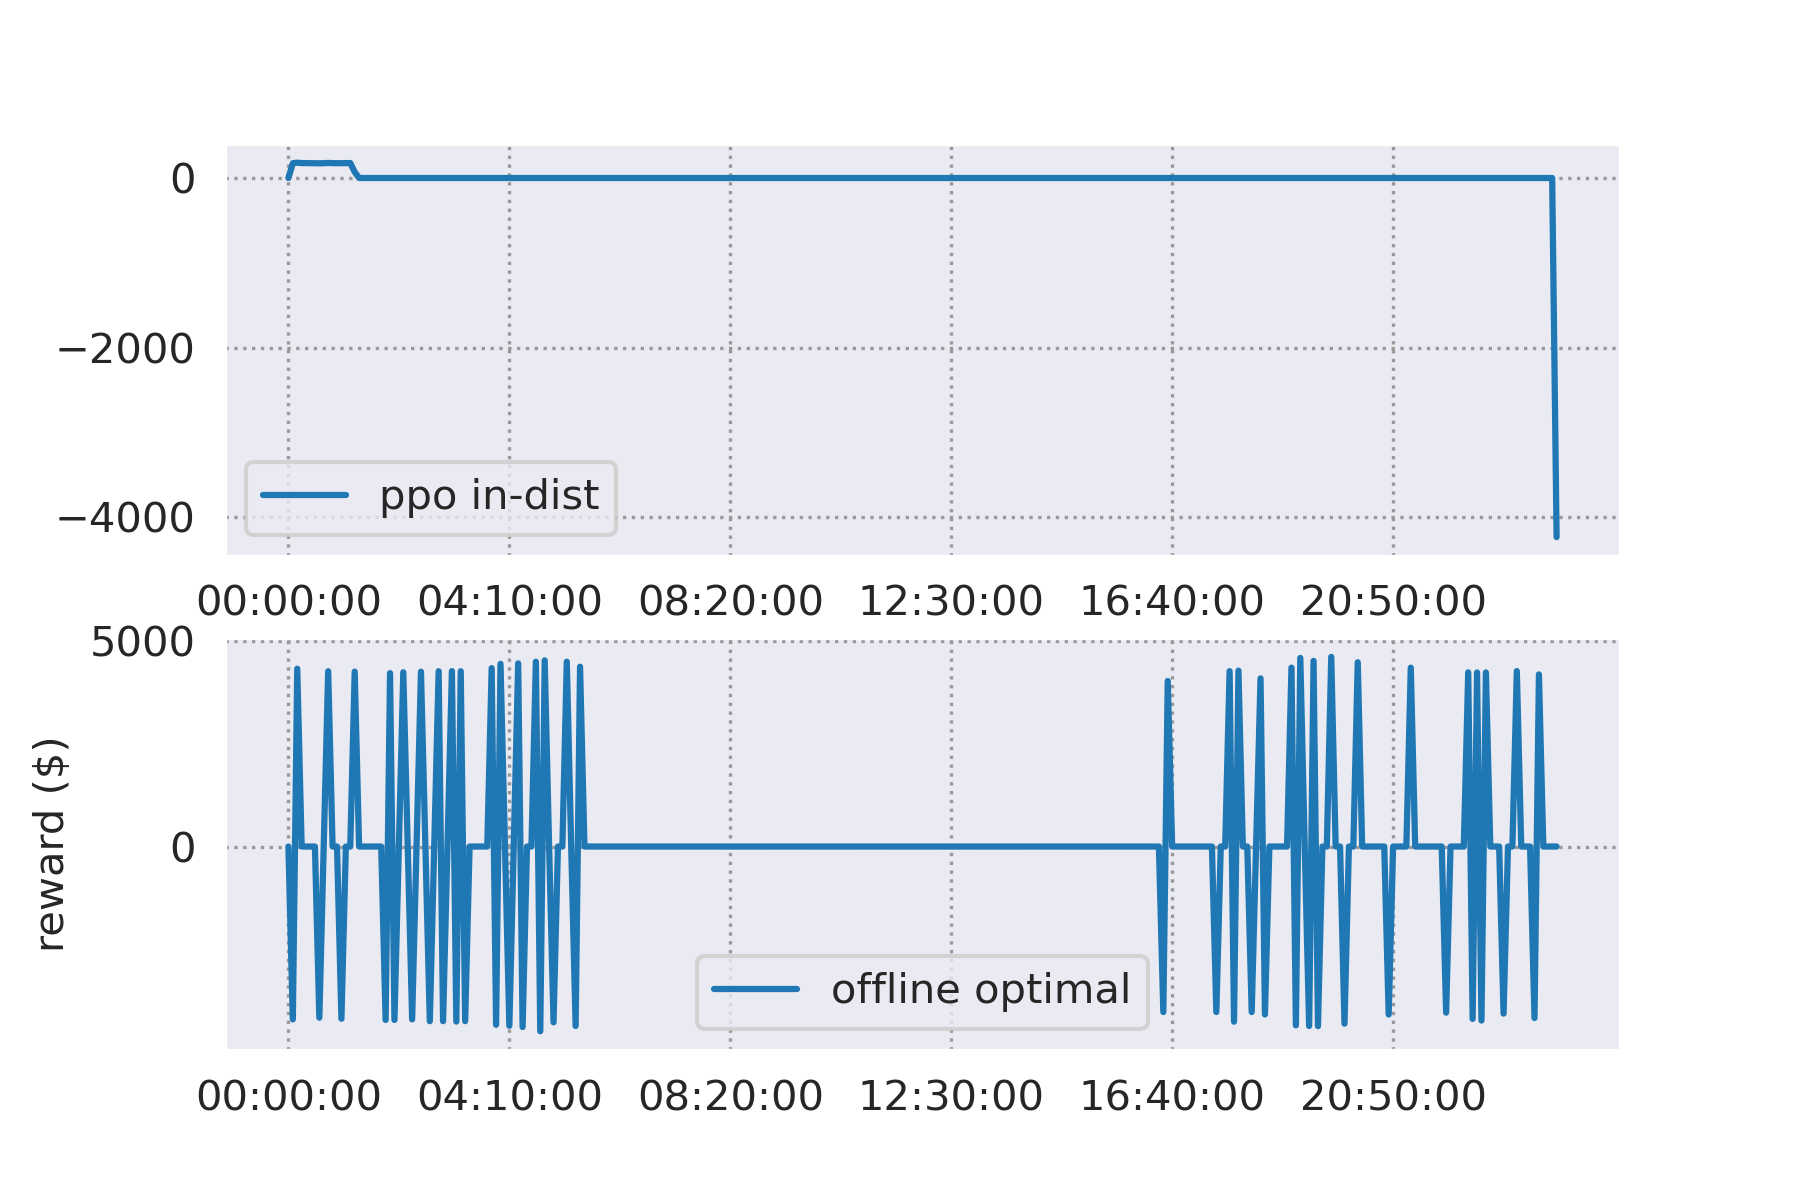
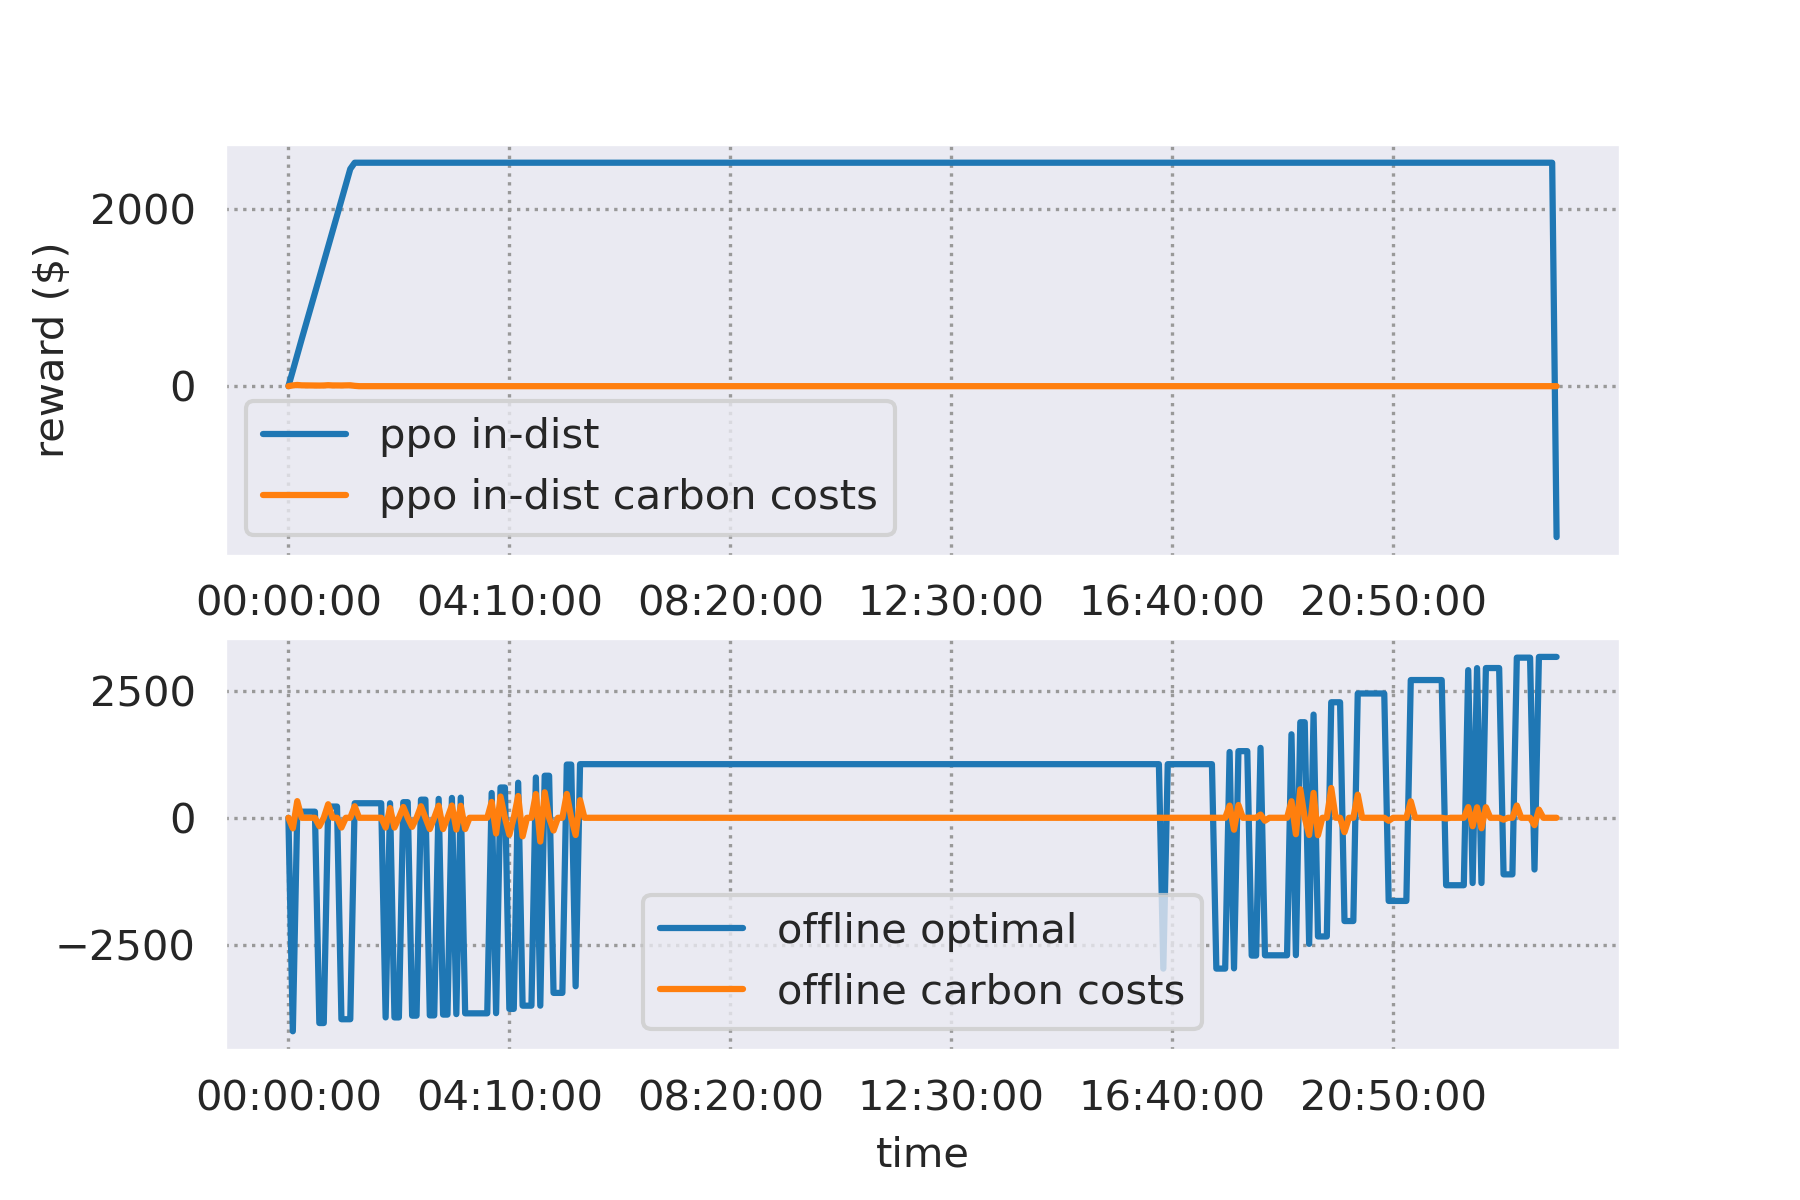
changed reward plots and printed soc to debug

diff --git a/sustaingym/envs/battery/plot_utils.py b/sustaingym/envs/battery/plot_utils.py
@@ -38,7 +38,8 @@ def training_eval_results(model: str, dist: str):
     error = results.std(axis=1)
     return timesteps, y, error
 
-def run_model_for_evaluation(model, episodes, env, add_soc_and_prices: bool = False, per_time_step: bool = False):
+def run_model_for_evaluation(model, episodes, env, add_soc_and_prices: bool = False,
+    per_time_step: bool = False, include_carbon_costs: bool = False):
     """
     Run a model for a number of episodes and return the mean and std of the reward.
     :param model: (BaseRLModel object) the model to evaluate
@@ -49,6 +50,7 @@ def run_model_for_evaluation(model, episodes, env, add_soc_and_prices: bool = Fa
     episode_rewards = []
     prices = np.zeros((episodes, env.MAX_STEPS_PER_EPISODE))
     charges = np.zeros((episodes, env.MAX_STEPS_PER_EPISODE))
+    carbon_costs = np.zeros((episodes, env.MAX_STEPS_PER_EPISODE))
     all_rewards = []
     
     for i in range(episodes):
@@ -56,20 +58,28 @@ def run_model_for_evaluation(model, episodes, env, add_soc_and_prices: bool = Fa
         charges[i, 0] = env.battery_charge[-1]
         done = False
         rewards = np.zeros(env.MAX_STEPS_PER_EPISODE)
+
         while not done:
             action, _ = model.predict(obs)
             obs, reward, done, info = env.step(action)
             rewards[env.count] = reward
             prices[i, env.count] = info['price']
             charges[i, env.count] = env.battery_charge[-1]
+            carbon_costs[i, env.count] = info['carbon reward']
         prices[i, 0] = prices[i, 1]
         episode_rewards.append(np.sum(rewards))
         all_rewards.append(rewards)
     
-    if not per_time_step:
-        return episode_rewards if not add_soc_and_prices else (episode_rewards, prices, charges)
-    
-    return all_rewards if not add_soc_and_prices else (episode_rewards, prices, charges)
+    if not include_carbon_costs:
+        if not per_time_step:
+            return episode_rewards if not add_soc_and_prices else (episode_rewards, prices, charges)
+        
+        return all_rewards if not add_soc_and_prices else (episode_rewards, prices, charges)
+    else:
+        if not per_time_step:
+            return episode_rewards, carbon_costs  if not add_soc_and_prices else (episode_rewards, prices, charges)
+        
+        return all_rewards, carbon_costs if not add_soc_and_prices else (episode_rewards, prices, charges)
 
 def get_offline_optimal(episodes, env):
     """
@@ -119,12 +129,15 @@ def get_offline_time_step_rewards(env):
     _, dispatches, prices = env._calculate_realistic_off_optimal_total_episode_reward()
     rewards = []
     rewards.append(0.)
+    carbon_costs = []
+    carbon_costs.append(0.)
     moers = env.moer_arr[:, 0]
 
     for i in range(1, env.MAX_STEPS_PER_EPISODE):
         rewards.append((prices[i] + env.CARBON_COST * moers[i]) * dispatches[i-1])
-
-    return rewards
+        carbon_costs.append(env.CARBON_COST * moers[i] * dispatches[i-1])
+    
+    return rewards, carbon_costs
 
 def plot_model_training_reward_curves(ax: MplAxes, model: str,
     dists: List[str]) -> MplAxes:
@@ -225,6 +238,8 @@ def plot_state_of_charge_and_prices(axes: List[MplAxes], load_data: pd.DataFrame
     charges = np.reshape(charges, (env.MAX_STEPS_PER_EPISODE,))
     offline_charges = np.reshape(offline_charges, (env.MAX_STEPS_PER_EPISODE,))
 
+    print(charges)
+
     ax.plot(timeArray, prices, label=model_label)
     ax.plot(timeArray, offline_prices, label='offline prices')
     ax2.plot(timeArray, charges, label=model_label)
@@ -263,16 +278,23 @@ def plot_reward_over_episode(axes: List[MplAxes], model, env) -> MplAxes:
         times.append(curr_time.strftime('%H:%M:%S'))
         curr_time += delta_time
     
-    ppo_reward = run_model_for_evaluation(model, 1, env, False, True)
-    offline_reward = get_offline_time_step_rewards(env)
+    ppo_reward, ppo_carbon_costs = run_model_for_evaluation(model, 1, env, False, True, True)
+    ppo_reward = np.array(ppo_reward[0])
+    offline_reward, offline_carbon_costs = get_offline_time_step_rewards(env)
+    offline_reward = np.array(offline_reward)
     
-    ax.plot(times, ppo_reward[0], label="ppo in-dist")
-    ax2.plot(times, offline_reward, label='offline optimal')
+    cum_ppo_reward = np.cumsum(ppo_reward)
+    cum_offline_reward = np.cumsum(offline_reward)
+    
+    ax.plot(times, cum_ppo_reward, label="ppo in-dist")
+    ax.plot(times, ppo_carbon_costs[0], label="ppo in-dist carbon costs")
+    ax2.plot(times, cum_offline_reward, label='offline optimal')
+    ax2.plot(times, offline_carbon_costs, label='offline carbon costs')
 
     # naming the x axis 
-    ax.set_xlabel('time')
+    ax2.set_xlabel('time')
     # naming the y axis 
-    ax2.set_ylabel('reward ($)')
+    ax.set_ylabel('reward ($)')
 
     ax.legend()
     ax2.legend()
